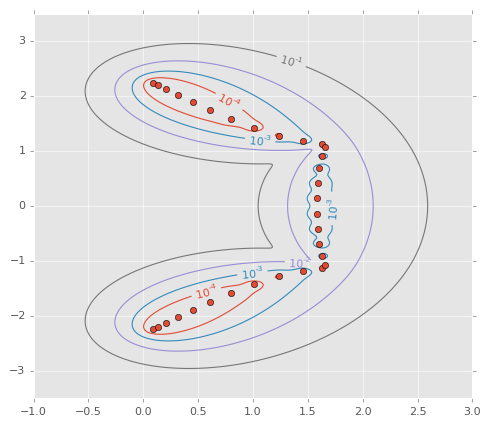
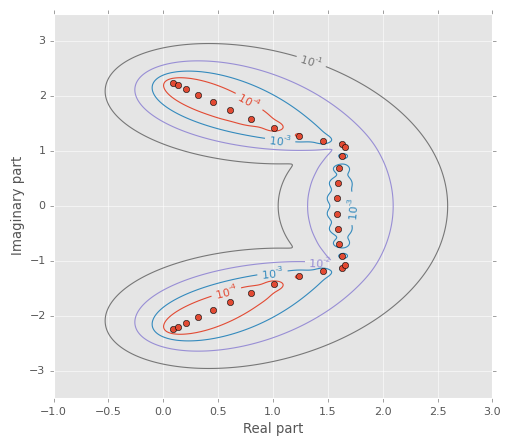
add axes labels

diff --git a/pseudopy/demo.py b/pseudopy/demo.py
@@ -51,4 +51,6 @@ def grcar_demo():
     # plot spectrum
     pyplot.plot(numpy.real(evals), numpy.imag(evals), 'o')
 
+    pyplot.xlabel('Real part')
+    pyplot.ylabel('Imaginary part')
     pyplot.show()
